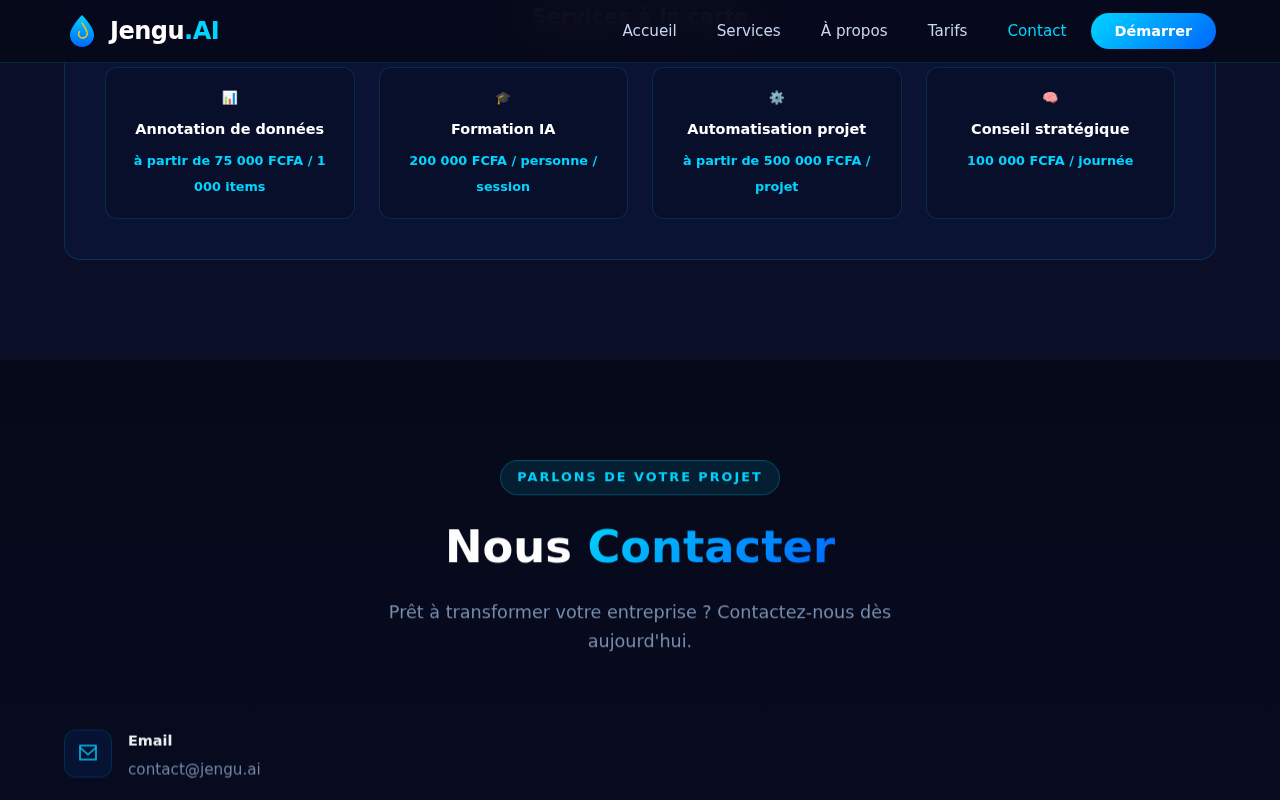
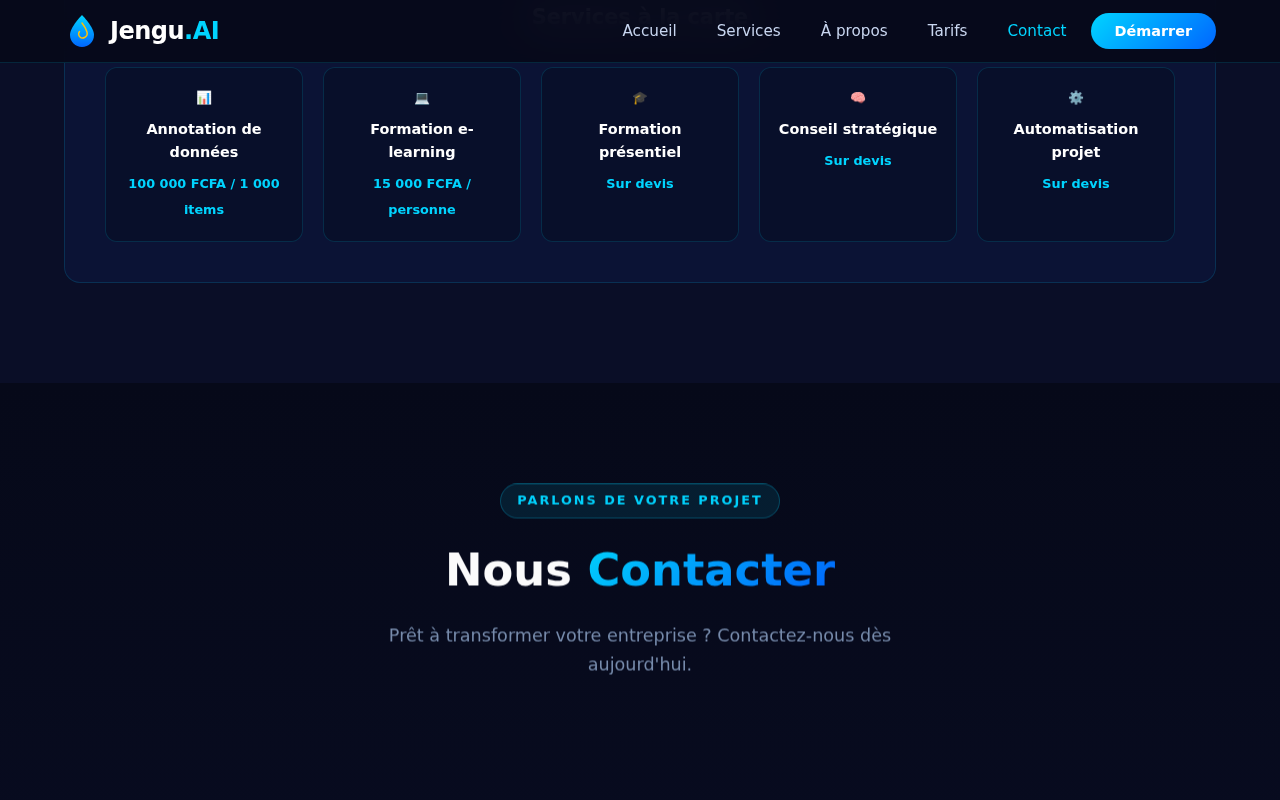
fix: update pricing to correct FCFA rates
- Starter: 100 000 FCFA/mois
- Pro: 200 000 FCFA/mois
- Annotation: 100 000 FCFA / 1 000 items
- Formation e-learning: 15 000 FCFA / personne
- Formation présentiel: Sur devis
- Conseil: Sur devis
- Automatisation: Sur devis

https://claude.ai/code/session_01H45mCt72DTZXkVPdDY7sY4

diff --git a/index.html b/index.html
@@ -284,7 +284,7 @@
             <h3>Starter</h3>
             <p>Pour les startups & TPE</p>
             <div class="pricing-price">
-              <span class="price-amount">150 000</span>
+              <span class="price-amount">100 000</span>
               <span class="price-currency">FCFA<small>/mois</small></span>
             </div>
           </div>
@@ -305,7 +305,7 @@
             <h3>Pro</h3>
             <p>Pour les PME en croissance</p>
             <div class="pricing-price">
-              <span class="price-amount">450 000</span>
+              <span class="price-amount">200 000</span>
               <span class="price-currency">FCFA<small>/mois</small></span>
             </div>
           </div>
@@ -348,22 +348,27 @@
           <div class="extra-item">
             <span class="extra-icon">📊</span>
             <strong>Annotation de données</strong>
-            <span>à partir de 75 000 FCFA / 1 000 items</span>
+            <span>100 000 FCFA / 1 000 items</span>
+          </div>
+          <div class="extra-item">
+            <span class="extra-icon">💻</span>
+            <strong>Formation e-learning</strong>
+            <span>15 000 FCFA / personne</span>
           </div>
           <div class="extra-item">
             <span class="extra-icon">🎓</span>
-            <strong>Formation IA</strong>
-            <span>200 000 FCFA / personne / session</span>
-          </div>
-          <div class="extra-item">
-            <span class="extra-icon">⚙</span>
-            <strong>Automatisation projet</strong>
-            <span>à partir de 500 000 FCFA / projet</span>
+            <strong>Formation présentiel</strong>
+            <span>Sur devis</span>
           </div>
           <div class="extra-item">
             <span class="extra-icon">🧠</span>
             <strong>Conseil stratégique</strong>
-            <span>100 000 FCFA / journée</span>
+            <span>Sur devis</span>
+          </div>
+          <div class="extra-item">
+            <span class="extra-icon">⚙</span>
+            <strong>Automatisation projet</strong>
+            <span>Sur devis</span>
           </div>
         </div>
       </div>

diff --git a/css/style.css b/css/style.css
@@ -824,8 +824,8 @@ ul { list-style: none; }
 }
 .extras-grid {
   display: grid;
-  grid-template-columns: repeat(4, 1fr);
-  gap: 24px;
+  grid-template-columns: repeat(5, 1fr);
+  gap: 20px;
 }
 .extra-item {
   text-align: center;
